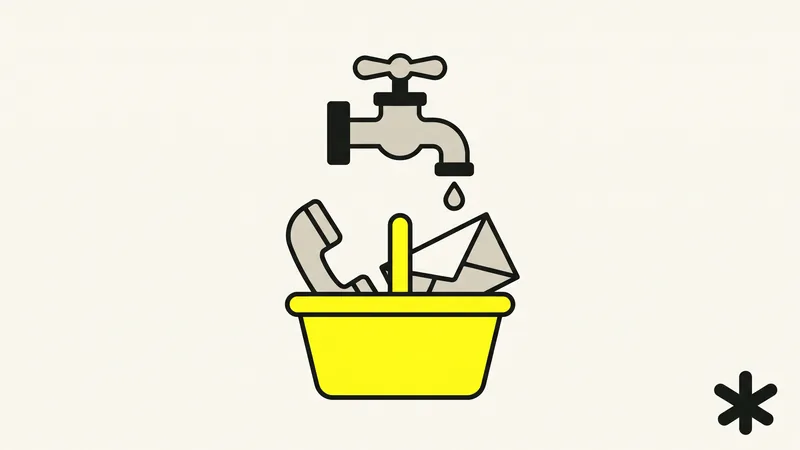
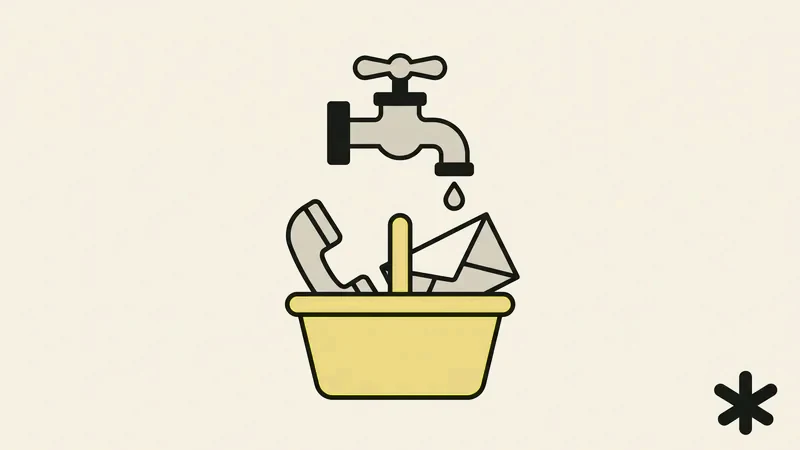
Fine Print illustrations recoloured to the straw highlighter and warm paper
Claude-Session: https://claude.ai/code/session_013WUHUKhPzuZMkxouTzmehm

Changed region(s): [[0.3438, 0.4667, 0.6562, 0.9022]]

diff --git a/src/styles/k-theme.css b/src/styles/k-theme.css
@@ -298,8 +298,7 @@ html:has(.fp) .masthead::before {
 /* --- Fine Print: paper, not neon ---------------------------------------
    Highlighter eased from #FFE14D to a straw #F0DB8C, ground warmed from
    #FAF9F4 to #F6F1E3. Ink on the highlighter is still above 13:1. The
-   baked-in illustration yellow is pulled back a little with a filter. */
-.fp .fp-img img { filter: saturate(.82) contrast(.98); }
+   illustrations were recoloured to match. */
 
 /* --- Today's Five as a terminal window -------------------------------
    One slate panel: status bar (new today + date), prompt-style title with
